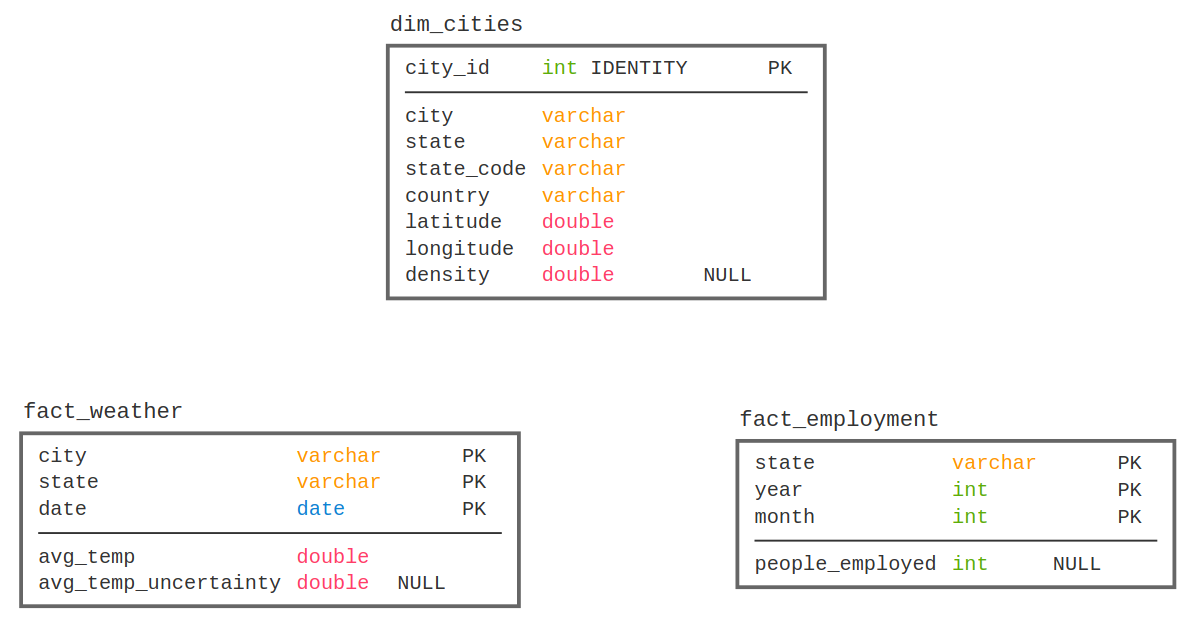
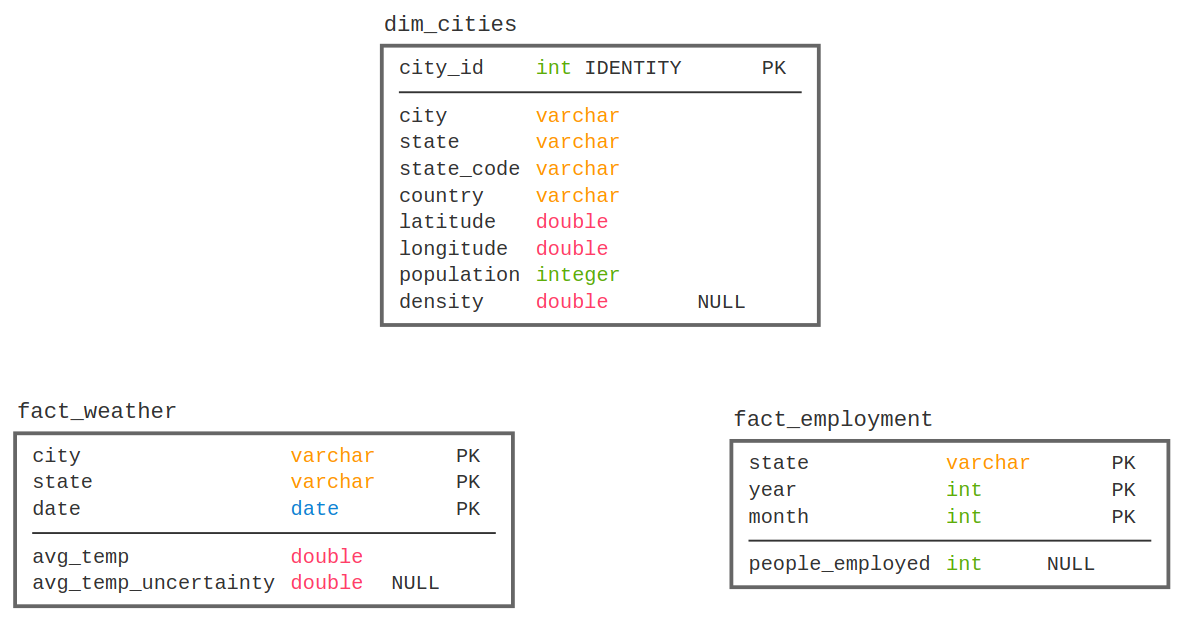
docs: updated readme

Changed region(s): [[0.3101, 0.0305, 0.7133, 0.549], [0.5893, 0.6404, 0.9925, 0.9454], [0.0, 0.6404, 0.4342, 0.9759]]

diff --git a/README.md b/README.md
@@ -4,18 +4,20 @@ This is the **capstone project** of Udacity's [Data Engineering Nanodegree](http
 
 ## Introduction
 
-The purpose of this project is to serve as a recommendation system of cities, taking several factores into consideration and ultimately recommending the best city to live in for someone.
+The purpose of this project is to serve as a recommendation system for cities of the United States, taking several factores into consideration and ultimately recommending the best city to live in for someone.
 
 It is a data pipeline orchestrated by **Airflow** consisting of extracting data from diverse sources, storing them in a **S3 Bucket** and then processing them using **Spark** into a **Data Warehouse** in **Redshift**. The populated database can be used with ad-hoc queries to gather insight into the best features of each city or be used as a ranking system to evaluate the best city overall tanking into account the person's interest.
 
 ## Resources
 
-* [`create_cluster.py`](./create_cluster.py) is a script to create a Redshift cluster (and everything else necessary) using the provided credentials in the [`settings.cfg`](./settings.cfg) file.
+* [`create_cluster.py`](./create_cluster.py) is a script to create a Redshift cluster (and everything else necessary) using the provided credentials in the `settings.cfg` file.
 * [`delete_cluster.py`](./delete_cluster.py) is a script to delete the Redshift cluster and remove the role created to access S3 buckets.
 * [`create_tables.py`](./create_tables.py) is a script to (re)create the dimension and fact tables for the star schema in Redshift.
-* `sql_statements.py` is used to define the SQL statements which will be imported into `create_tables.py` file.
-* `docker-compose.dev.yml` is a docker-compose file to create an Airflow instance running the webserver, a Postgres database, a Spark master node and a Spark worker node to be used for local development.
-* `cities.py` is a DAG file to load data from S3 into the staging tables on Redshift and then processes that data into the analytics tables.
+* [`sql_statements.py`](./sql_statements.py) is used to define the SQL statements which will be imported into [`create_tables.py`](./create_tables.py) file.
+* [`docker-compose.dev.yml`](./docker-compose.dev.yml) is a docker-compose file to create an Airflow instance running the webserver, a Postgres database, a Spark master node and a Spark worker node to be used for local development.
+* [`cities.py`](./airflow/dags/cities.py) is a DAG file to download US city data, upload to S3, process using Spark and load into Redshift.
+* [`employment.py`](./airflow/dags/employment.py) is a DAG file to download US employment data, upload to S3, process using Spark and load into Redshift.
+* [`weather.py`](./airflow/dags/weather.py) is a DAG file to download US weather data, upload to S3, process using Spark and load into Redshift.
 * The `settings.cfg` file should have the following structure and its values must be filled in.
 
 ```ini
@@ -39,34 +41,70 @@ DB_PORT=
 [IAM_ROLE]
 ARN=
 ```
-
 ## Data Sources
 
-* Population 
-  * https://simplemaps.com/data/us-cities
+* City and Population
+  * Source: [simplemaps](https://simplemaps.com/data/us-cities)
+  * Information: city, state, state_code, country, latitude, longitude, population, density.
 * Employment numbers
-  * https://api.bls.gov/publicAPI/v2/timeseries/data/CEU0500000003
+  * Source: [US Government Bureau of Labor Statistics](https://www.bls.gov/help/hlpforma.htm#SM)
+  * Information: people_employed, state, year, month
 * Weather
-  * https://www.kaggle.com/berkeleyearth/climate-change-earth-surface-temperature-data#GlobalLandTemperaturesByCity.csv
-
-
-## Future Work
-
-* Safety
-* cost of living, housing indicators, health care, traffic, crime and pollution.
+  * Source: [Kaggle dataset for Land Temperatures](https://www.kaggle.com/berkeleyearth/climate-change-earth-surface-temperature-data#GlobalLandTemperaturesByCity.csv) and [OpenCage geocoding API](https://opencagedata.com/api) to retrieve a state from a geocode.
+  * Information: avg_temp, avg_temp_uncertainty, city, state, date
   
 ## Getting Started
 
-* add connections to airflow (s3_conn,aws_credentials)
-* add variables to airflow (kaggle_username, kaggle_api_key, bls_api_key)
+* Run [`docker-compose.dev.yml`](./docker-compose.dev.yml) to setup the environment, containing an Airflow instance and Spark nodes.
+  * Add connections to airflow
+    *  `s3_conn`: access key and secret key to upload files to S3 bucket.
+    *  `aws_credentials`: access key and secret access key to read S3 information from Spark and to manage Redshift instance.
+  * Add variables to airflow
+    *  `kaggle_username`: username of the Kaggle user to download dataset.
+    *  `kaggle_api_key`: key used to authenticate to Kaggle API.
+    *  `bls_api_key`: key used to authenticate to BLS API and avoid daily request limits
+    *  `opencage_api_key`: key used to authenticate to OpenCage API.
+* Run [`create_cluster.py`](./create_cluster.py) to setup a Redshift cluster or create an instance via AWS console.
+* Run [`create_tables.py`](./create_tables.py) to create the tables used in Redshift.
 
+Alternatively, in a **production setting**, one could use a **EC2 instance** running Airflow and a **EMR cluster** to connect to.
+
+## Data Pipeline
+
+The Data Pipeline is orchestrated by Airflow using three DAGs:
+* [`cities.py`](./airflow/dags/cities.py) begins by downloading a `.zip` file, extracting its contents into a `.csv` file, uploading to a S3 bucket, which is then processed by Spark to filter unused rows, choose the appropriate columns and rename when necessary. The processed data is then uploaded to S3 so that a `COPY` command can be executed, loading the `dim_cities` table in Redshift. The final task is used as a data quality check to ensure that everything was loaded correctly.
+* [`employment.py`](./airflow/dags/employment.py) DAG works similarly, but the data source is a Web API that returns `.json` structured data. The `spark_processor` task is also slightly different because it needs to explode the deeply nested data resulted from the `POST` call to the API. The data is retrieved **monthly**, as the source is updated.
+* [`weather.py`](./airflow/dags/weather.py) is also similar, but the source is a Kaggle dataset and the `spark_processor` task has to filter the data from United States and since the dataset only has city names (that can have duplicates across states), it needs to make a request to the OpenCage API using a lat, long tuple to return the state located in those coordinates.
 
 ![Cities DAG](./resources/cities_dag.png)
 ![Employment DAG](./resources/employment_dag.png)
 ![Weather DAG](./resources/weather_dag.png)
 
+Since the current data sources do not update daily, it isn't necessary to increase the DAG run frequency, but with the addition of more data sources (more frequently updated), this data pipeline model is generic enough to easily fit these types of daily or even hourly-updated sources, as it is possible to upload the data to S3 (that could work as a Data Lake for raw information) and then load it into Redshift for a more structured organization.
+
 ## Data Model
 
-The data model chosen to represent the data processed by the ETL is the following:
+The data model chosen to represent the data processed by the pipeline is a star schema in a Data Warehouse so that certain ad-hoc queries are possible to analyze the data, but there are also different **distribution styles** and **sortkeys** in order for the data to be able to scale without losing too much performance.
+
+* `dim_cities` uses `diststyle all`, since it is small enough (<5MB) to fit in all Redshift nodes and this way provides a fast way to access this dimension data and avoiding shuffling when using `JOIN`s.
+* `fact_weather` uses `distkey` on `state`, since queries will mostly be made against cities and states  and `sortkey` on `date` to be able to filter certain dates and make aggregations more performant.
+* `fact_employment` uses `distkey` on `state` and a `compound sortkey` on `(year, month)` for similiar reasons as `fact_weather`.
+
+Therefore, this model can scale well when the data intake is increased, as queries will almost always use one or a few Redshift nodes. It also takes into account the number of concurrent access it needs to handle, since Redshift nodes can ditribute the processing into its nodes for each request.
+
+Spark can handle the volume increase as well, using parallel processing by following a similar distribution logic as the Redshift tables.
 
 ![Star Schema](./resources/table_schema.png)
+
+
+## Future Work
+
+This system could be further enriched with more data sources, such as
+
+* Safety
+* Cost of living
+* Housing indicators
+* Health care
+* Traffic
+* Crime 
+* Pollution
